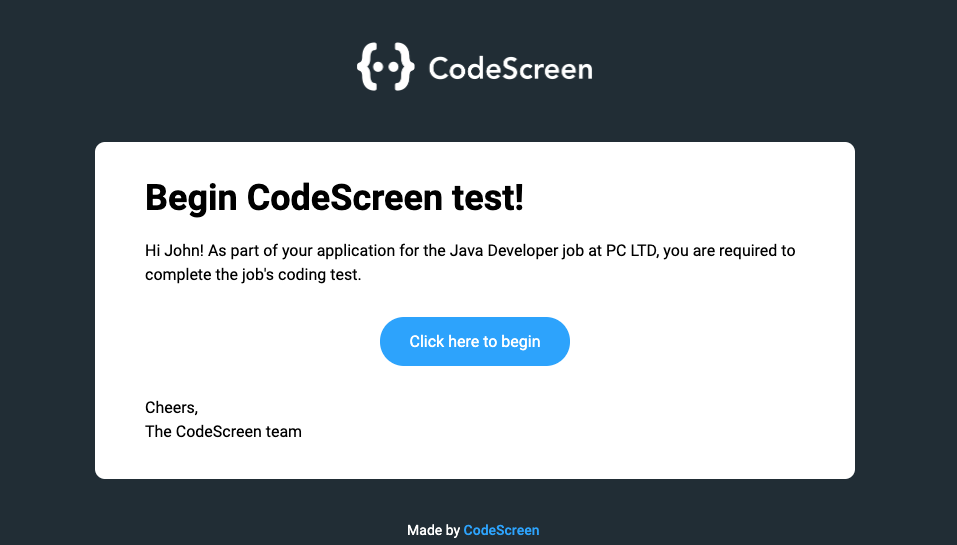
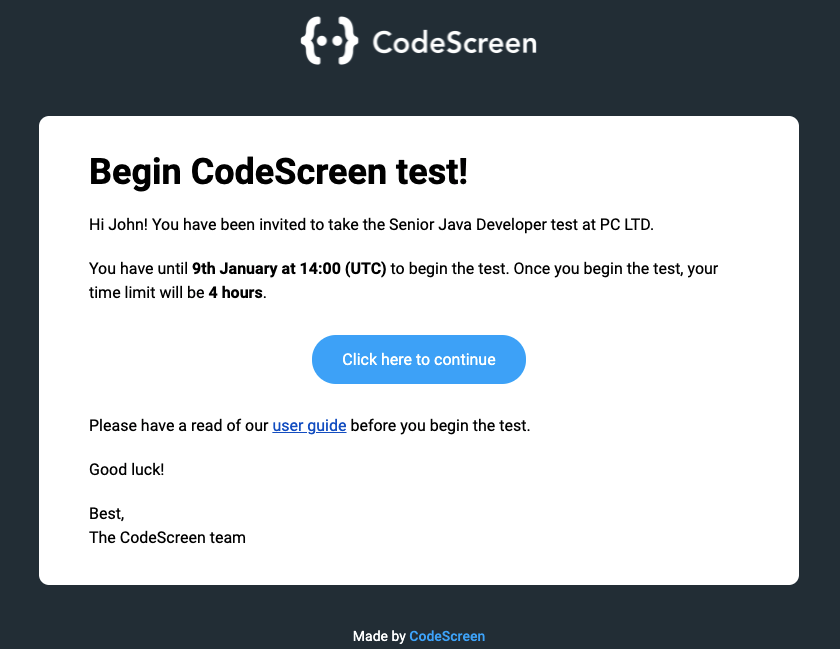
Updated Begin Test email images with new hard date format

Changed region(s): [[0.031, 0.0312, 0.9595, 0.9046], [0.4024, 0.967, 0.5881, 0.9982]]

diff --git a/docs/recruitee.md b/docs/recruitee.md
@@ -63,6 +63,18 @@ Once you select the test, click the `Send` button. You will then see a confirmat
   <img style="max-width: 70%;" src="recruitee9.png" alt="Recruitee 9"/>
 </figure>
 
+CodeScreen then sends the candidate an email containing the instructions for the test. 
+
+You are able to edit the email templates that are used to include your own wording and your company’s branding. You can read more details about this [here](templates.md). 
+
+The default email template looks like the following:
+
+<figure>
+  <figcaption style="font-style: italic;"></figcaption>
+  </br>
+  <img style="max-width: 60%;" src="recruitee10.png" alt="Workable 5"/>
+</figure>
+
 
 
 ### 3. Review the test result.

diff --git a/docs/comeet.md b/docs/comeet.md
@@ -61,8 +61,7 @@ Once a candidate is moved into the stage that you added the CodeScreen assessmen
 
 When you click Start, CodeScreen sends an email to the candidate containing the instructions for the test.
 
-You are able to edit the email templates that are used to include your own wording and your company’s branding.<br>
-You can read more details about this [here](templates.md). 
+You are able to edit the email templates that are used to include your own wording and your company’s branding. You can read more details about this [here](templates.md). 
 
 The default email template looks like the following:
 

diff --git a/docs/smartrecruiters.md b/docs/smartrecruiters.md
@@ -55,8 +55,7 @@ Click `Select`, then click `Continue` and finally click `Send` to send the test 
 
 When you click Send, CodeScreen sends an email to the candidate containing the instructions for the test.
 
-You are able to edit the email templates that are used to include your own wording and your company’s branding.<br>
-You can read more details about this [here](templates.md). 
+You are able to edit the email templates that are used to include your own wording and your company’s branding. You can read more details about this [here](templates.md). 
 
 The default email template looks like the following:
 

diff --git a/docs/workable.md b/docs/workable.md
@@ -61,8 +61,7 @@ Once a candidate is moved into the stage of the pipeline that you added the Code
 
 When you click Send Test, CodeScreen sends an email containing the instructions for the test. 
 
-You are able to edit the email templates that are used to include your own wording and your company’s branding.<br>
-You can read more details about this [here](templates.md). 
+You are able to edit the email templates that are used to include your own wording and your company’s branding. You can read more details about this [here](templates.md). 
 
 The default email template looks like the following:
 
